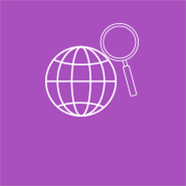
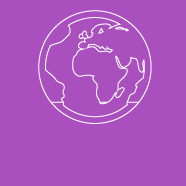
Изменены картинки плиток Category

Changed region(s): [[0.1882, 0.0538, 0.8333, 0.672], [0.2419, 0.1075, 0.3495, 0.2151], [0.3495, 0.0806, 0.4301, 0.1344]]

diff --git a/LikeLik/CategoryViewController.m b/LikeLik/CategoryViewController.m
@@ -363,7 +363,7 @@ static BOOL IS_LOADING;
     [self.categoryView addSubview:frame7];
     
     UIView *frame8 = [[UIView alloc] initWithFrame:CGRectMake(frameSize +2*xOrigin, 2*frameSize + yOrigin + 3*yOffset, frameSize, frameSize)];
-    frame8.backgroundColor = [UIColor grayColor];//[UIColor colorWithPatternImage:[self imageWithImage:[UIImage imageNamed:@"8.png"] scaledToSize:CGSizeMake(frameSize, frameSize)]];
+    frame8.backgroundColor = [UIColor colorWithPatternImage:[self imageWithImage:[UIImage imageNamed:@"8.png"] scaledToSize:CGSizeMake(frameSize, frameSize)]];
     frame8.tag = 7;
     [self.categoryView addSubview:frame8];
     

diff --git a/LikeLik/InterfaceFunctions.m b/LikeLik/InterfaceFunctions.m
@@ -323,7 +323,8 @@
 
     if ([Category isEqualToString:AMLocalizedString(@"Restaurants", nil)]) {
         //Pin.image = [UIImage imageNamed:@"63_76 MapPin_2"];
-        Pin.image = [UIImage imageNamed:@"knuck_pin_2"];
+        //Pin.image = [UIImage imageNamed:@"knuck_pin_2"];
+        Pin.image = [UIImage imageNamed:@"knuck_pin_test5"];
     }
     if ([Category isEqualToString:AMLocalizedString(@"Night life", nil)]) {
         //Pin.image=[UIImage imageNamed:@"63_76 MapPin_3"];
